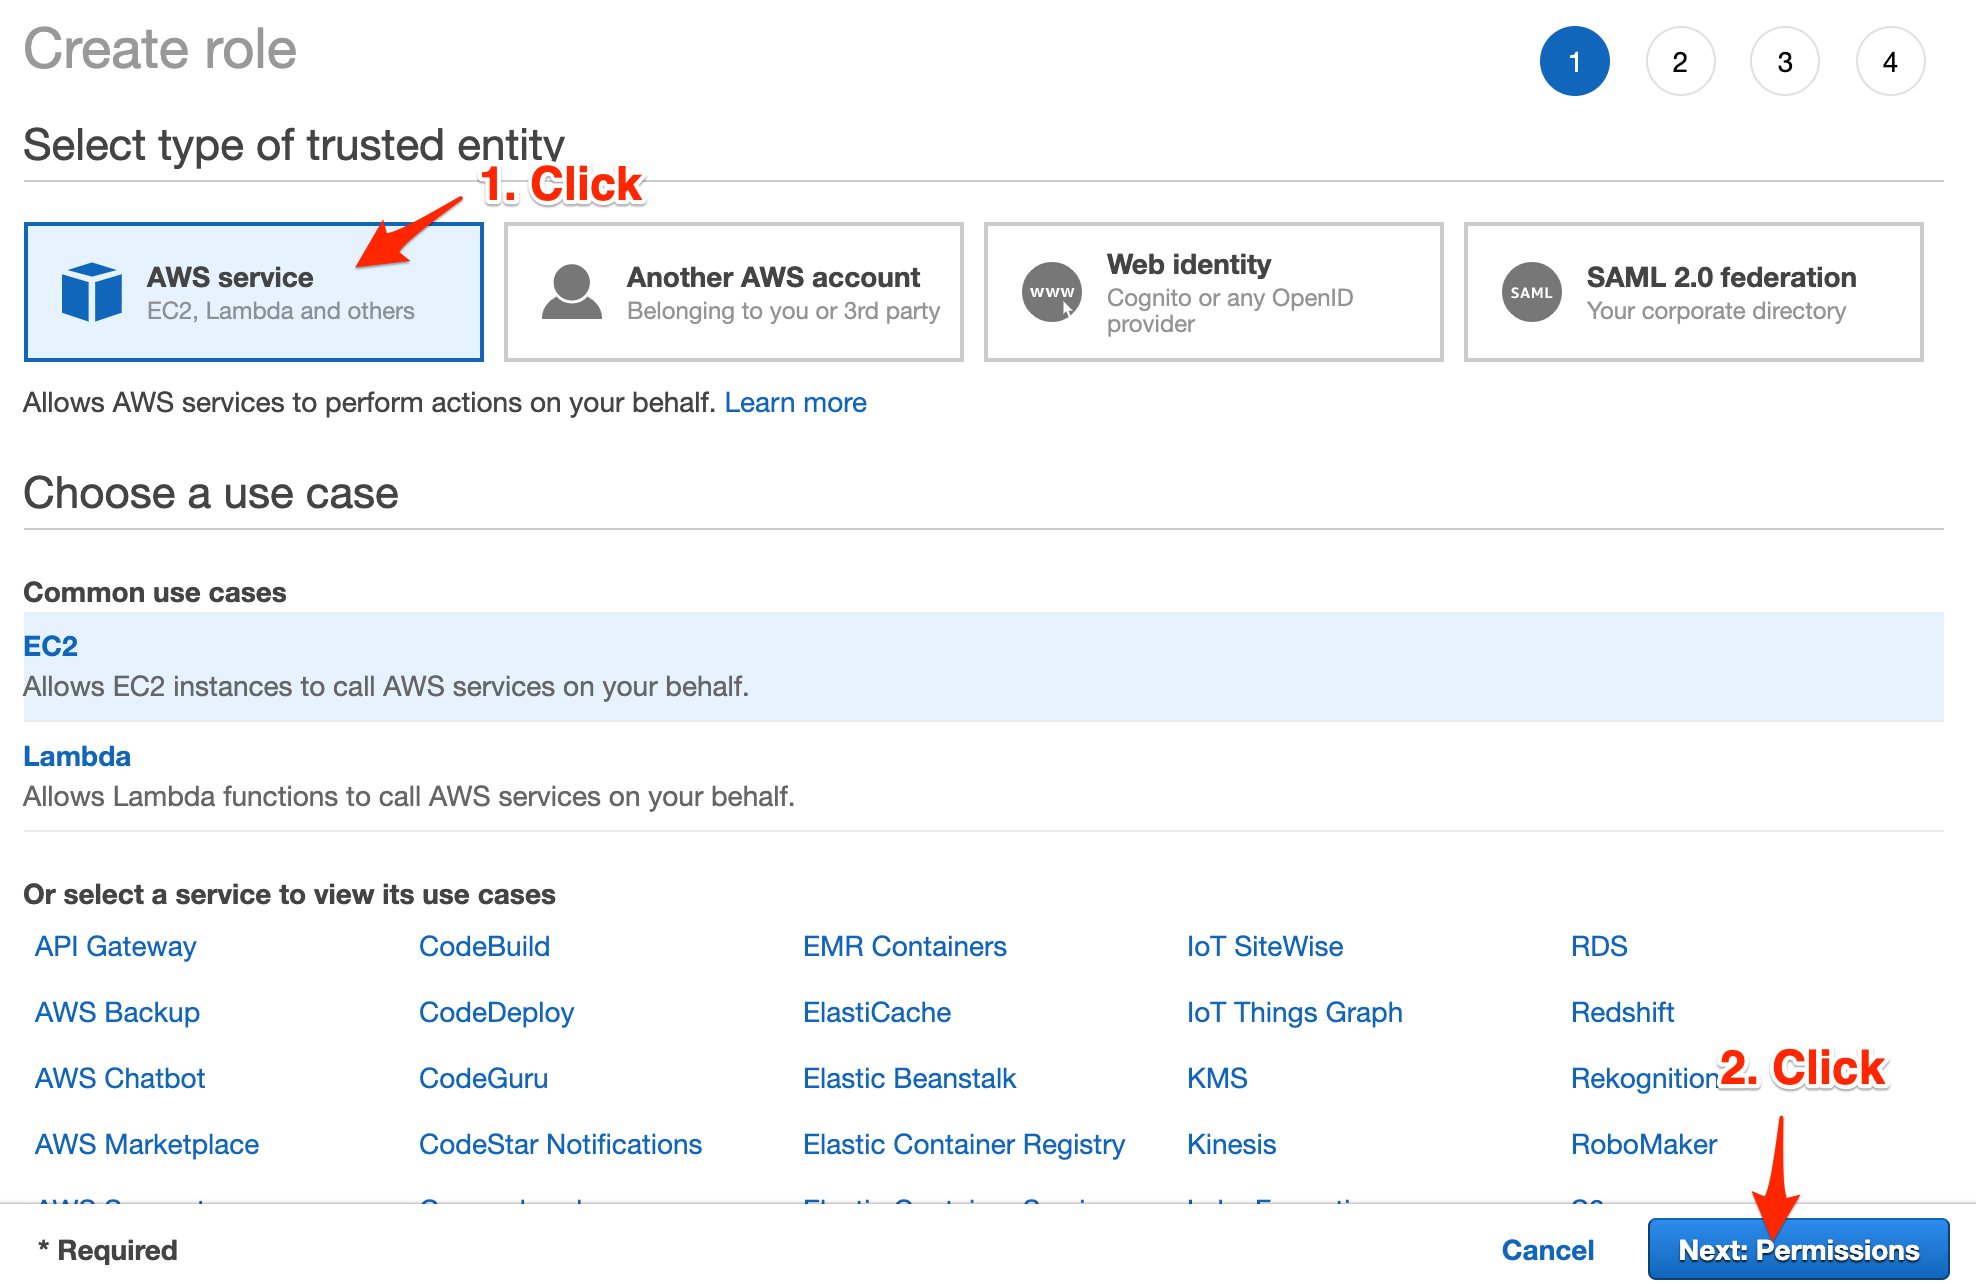
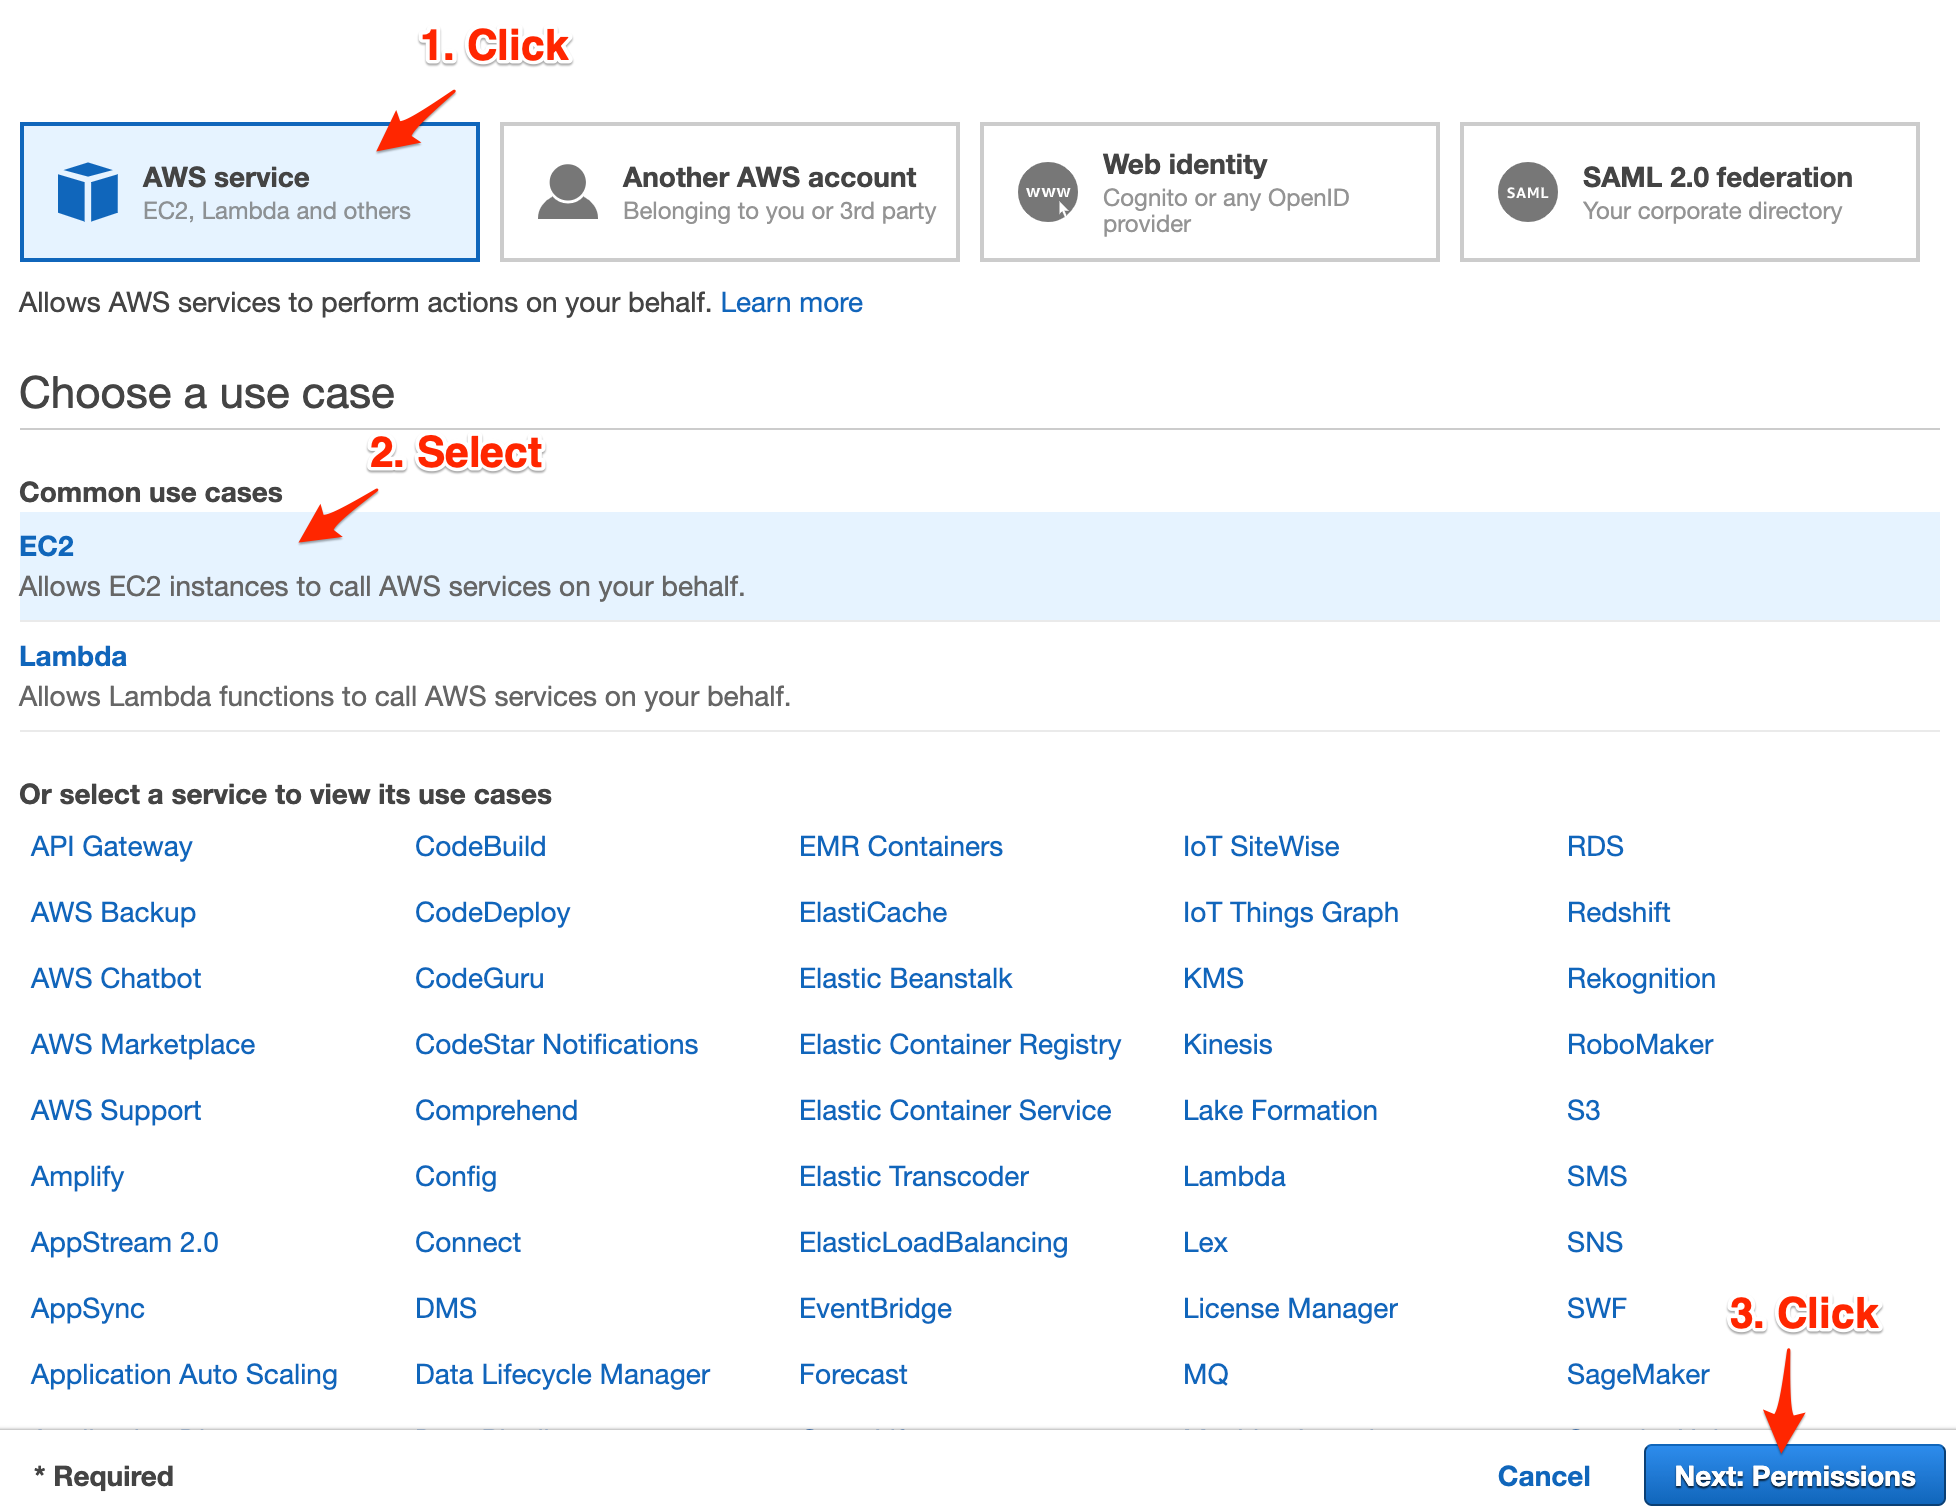
update

diff --git a/content/work2/task-4.md b/content/work2/task-4.md
@@ -37,7 +37,7 @@ https://docs.aws.amazon.com/systems-manager/latest/userguide/setup-instance-prof
 
 <img src="../images/ip2.png" alt="drawing" width="500"/>
 
-3. Click on "AWS service" and later on "Next: Permissions".
+3. Click on "AWS service", select EC2 and later on "Next: Permissions".
 
 <img src="../images/ip3.png" alt="drawing" width="700"/>
 
@@ -81,10 +81,14 @@ https://docs.aws.amazon.com/systems-manager/latest/userguide/setup-instance-prof
 
 11. Scroll down to the bottom page. On *Corresponding managed instances*, you will see your EC2 instances. Now you can use Systems Manager to automate operational tasks on your EC2 instances.
 
-<img src="../images/ip11.png" alt="drawing" width="800"/> 
-
 {{% notice info %}}
 NOTE: After the modification of their instance profiles, it may take up to **5 minutes** for the instances to appear into the managed instances inventory .
+{{% /notice %}}
+
+<img src="../images/ip11.png" alt="drawing" width="800"/> 
+
+{{% notice warning %}}
+If after 5 min you are not able to see the EC2 instances in the inventory, please **reboot** your EC2 instances.
 {{% /notice %}}
 
 

diff --git a/content/work2/task-1.md b/content/work2/task-1.md
@@ -12,7 +12,7 @@ The product catalog is a Web Application that was recently migrated from On-prem
 
 <img src="../images/region.png" alt="drawing" width="600"/>
 
-2. Open the EC2 console. Service search box > ECS
+2. Open the EC2 console. Service search box > EC2
 
 <img src="../images/EC2.png" alt="drawing" width="600"/>
 
@@ -25,6 +25,10 @@ You will see two EC2 instances, one for the web server and other one for the dat
 <img src="../images/dns.png" alt="drawing" width="600"/>
 
 4. Paste the public DNS in a web browser. You will see that the Product Catalog web application. 
+
+{{% notice info %}}
+Please make sure that you are using **http** to access the Application, some browsers use *https* by default
+{{% /notice %}}
 
 <img src="../images/app.png" alt="drawing" width="600"/>
 
